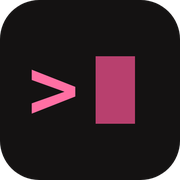
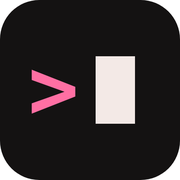
Ink cursor, PHILLY aligned under upside

Changed region(s): [[0.5278, 0.3056, 0.75, 0.6944]]

diff --git a/about.html b/about.html
@@ -400,8 +400,8 @@ if(ok.indexOf(location.hostname)<0){try{document.documentElement.innerHTML="";}c
 <header class="top">
   <div class="wrap">
     <a class="logo" href="index.html" aria-label="The Upside Philly, home">
-      <svg class="light" viewBox="0 0 300 90" role="img" aria-label="The Upside Philly"><title>The Upside Philly</title><desc>© 2026 Shirah M. Brown · UPS-SMB-26-7F3A9C</desc><text x="0" y="44" font-family="Marcellus,Georgia,serif" font-size="40" fill="#2F2C2C"><tspan fill="#B8406E" font-family="ui-monospace,Menlo,Consolas,monospace" font-size="34" font-weight="700">&gt;</tspan> the_upside</text><rect class="cur" x="234" y="18" width="16" height="30" fill="#B8406E"/><text x="30" y="78" font-family="ui-monospace,Menlo,Consolas,monospace" font-size="17" letter-spacing="9" fill="#B8406E" font-weight="700">PHILLY</text></svg>
-      <svg class="dark" viewBox="0 0 300 90" role="img" aria-label="The Upside Philly"><title>The Upside Philly</title><desc>© 2026 Shirah M. Brown · UPS-SMB-26-7F3A9C</desc><text x="0" y="44" font-family="Marcellus,Georgia,serif" font-size="40" fill="#F3E9E6"><tspan fill="#FF6FA3" font-family="ui-monospace,Menlo,Consolas,monospace" font-size="34" font-weight="700">&gt;</tspan> the_upside</text><rect class="cur" x="234" y="18" width="16" height="30" fill="#B8406E"/><text x="30" y="78" font-family="ui-monospace,Menlo,Consolas,monospace" font-size="17" letter-spacing="9" fill="#FF6FA3" font-weight="700">PHILLY</text></svg>
+      <svg class="light" viewBox="0 0 300 90" role="img" aria-label="The Upside Philly"><title>The Upside Philly</title><desc>© 2026 Shirah M. Brown · UPS-SMB-26-7F3A9C</desc><text x="0" y="44" font-family="Marcellus,Georgia,serif" font-size="40" fill="#2F2C2C"><tspan fill="#B8406E" font-family="ui-monospace,Menlo,Consolas,monospace" font-size="34" font-weight="700">&gt;</tspan> the_upside</text><rect class="cur" x="234" y="18" width="16" height="30" fill="#2F2C2C"/><text x="135" y="78" textLength="115" lengthAdjust="spacing" font-family="ui-monospace,Menlo,Consolas,monospace" font-size="17" fill="#B8406E" font-weight="700">PHILLY</text></svg>
+      <svg class="dark" viewBox="0 0 300 90" role="img" aria-label="The Upside Philly"><title>The Upside Philly</title><desc>© 2026 Shirah M. Brown · UPS-SMB-26-7F3A9C</desc><text x="0" y="44" font-family="Marcellus,Georgia,serif" font-size="40" fill="#F3E9E6"><tspan fill="#FF6FA3" font-family="ui-monospace,Menlo,Consolas,monospace" font-size="34" font-weight="700">&gt;</tspan> the_upside</text><rect class="cur" x="234" y="18" width="16" height="30" fill="#F3E9E6"/><text x="135" y="78" textLength="115" lengthAdjust="spacing" font-family="ui-monospace,Menlo,Consolas,monospace" font-size="17" fill="#FF6FA3" font-weight="700">PHILLY</text></svg>
     </a>
     <nav aria-label="Main">
       <ul>
@@ -468,8 +468,8 @@ if(ok.indexOf(location.hostname)<0){try{document.documentElement.innerHTML="";}c
       <span>© 2026 Shirah M. Brown · Philadelphia, PA · All rights reserved</span>
     </div>
     <a class="logo" href="index.html" aria-label="The Upside Philly home">
-      <svg class="light" viewBox="0 0 300 90" role="img" aria-label="The Upside Philly"><title>The Upside Philly</title><desc>© 2026 Shirah M. Brown · UPS-SMB-26-7F3A9C</desc><text x="0" y="44" font-family="Marcellus,Georgia,serif" font-size="40" fill="#2F2C2C"><tspan fill="#B8406E" font-family="ui-monospace,Menlo,Consolas,monospace" font-size="34" font-weight="700">&gt;</tspan> the_upside</text><rect class="cur" x="234" y="18" width="16" height="30" fill="#B8406E"/><text x="30" y="78" font-family="ui-monospace,Menlo,Consolas,monospace" font-size="17" letter-spacing="9" fill="#B8406E" font-weight="700">PHILLY</text></svg>
-      <svg class="dark" viewBox="0 0 300 90" role="img" aria-label="The Upside Philly"><title>The Upside Philly</title><desc>© 2026 Shirah M. Brown · UPS-SMB-26-7F3A9C</desc><text x="0" y="44" font-family="Marcellus,Georgia,serif" font-size="40" fill="#F3E9E6"><tspan fill="#FF6FA3" font-family="ui-monospace,Menlo,Consolas,monospace" font-size="34" font-weight="700">&gt;</tspan> the_upside</text><rect class="cur" x="234" y="18" width="16" height="30" fill="#B8406E"/><text x="30" y="78" font-family="ui-monospace,Menlo,Consolas,monospace" font-size="17" letter-spacing="9" fill="#FF6FA3" font-weight="700">PHILLY</text></svg>
+      <svg class="light" viewBox="0 0 300 90" role="img" aria-label="The Upside Philly"><title>The Upside Philly</title><desc>© 2026 Shirah M. Brown · UPS-SMB-26-7F3A9C</desc><text x="0" y="44" font-family="Marcellus,Georgia,serif" font-size="40" fill="#2F2C2C"><tspan fill="#B8406E" font-family="ui-monospace,Menlo,Consolas,monospace" font-size="34" font-weight="700">&gt;</tspan> the_upside</text><rect class="cur" x="234" y="18" width="16" height="30" fill="#2F2C2C"/><text x="135" y="78" textLength="115" lengthAdjust="spacing" font-family="ui-monospace,Menlo,Consolas,monospace" font-size="17" fill="#B8406E" font-weight="700">PHILLY</text></svg>
+      <svg class="dark" viewBox="0 0 300 90" role="img" aria-label="The Upside Philly"><title>The Upside Philly</title><desc>© 2026 Shirah M. Brown · UPS-SMB-26-7F3A9C</desc><text x="0" y="44" font-family="Marcellus,Georgia,serif" font-size="40" fill="#F3E9E6"><tspan fill="#FF6FA3" font-family="ui-monospace,Menlo,Consolas,monospace" font-size="34" font-weight="700">&gt;</tspan> the_upside</text><rect class="cur" x="234" y="18" width="16" height="30" fill="#F3E9E6"/><text x="135" y="78" textLength="115" lengthAdjust="spacing" font-family="ui-monospace,Menlo,Consolas,monospace" font-size="17" fill="#FF6FA3" font-weight="700">PHILLY</text></svg>
     </a>
     <span class="fpx" aria-hidden="true">Designed, written and built by Shirah M. Brown for The Upside Philly. Copying is not permitted. Ref UPS-SMB-26-7F3A9C.</span>
   </footer>

diff --git a/window-boxes.html b/window-boxes.html
@@ -293,8 +293,8 @@ if(ok.indexOf(location.hostname)<0){try{document.documentElement.innerHTML="";}c
 <header class="top">
   <div class="wrap">
     <a class="logo" href="index.html" aria-label="The Upside Philly, home">
-      <svg class="light" viewBox="0 0 300 90" role="img" aria-label="The Upside Philly"><title>The Upside Philly</title><desc>© 2026 Shirah M. Brown · UPS-SMB-26-7F3A9C</desc><text x="0" y="44" font-family="Marcellus,Georgia,serif" font-size="40" fill="#2F2C2C"><tspan fill="#B8406E" font-family="ui-monospace,Menlo,Consolas,monospace" font-size="34" font-weight="700">&gt;</tspan> the_upside</text><rect class="cur" x="234" y="18" width="16" height="30" fill="#B8406E"/><text x="30" y="78" font-family="ui-monospace,Menlo,Consolas,monospace" font-size="17" letter-spacing="9" fill="#B8406E" font-weight="700">PHILLY</text></svg>
-      <svg class="dark" viewBox="0 0 300 90" role="img" aria-label="The Upside Philly"><title>The Upside Philly</title><desc>© 2026 Shirah M. Brown · UPS-SMB-26-7F3A9C</desc><text x="0" y="44" font-family="Marcellus,Georgia,serif" font-size="40" fill="#F3E9E6"><tspan fill="#FF6FA3" font-family="ui-monospace,Menlo,Consolas,monospace" font-size="34" font-weight="700">&gt;</tspan> the_upside</text><rect class="cur" x="234" y="18" width="16" height="30" fill="#B8406E"/><text x="30" y="78" font-family="ui-monospace,Menlo,Consolas,monospace" font-size="17" letter-spacing="9" fill="#FF6FA3" font-weight="700">PHILLY</text></svg>
+      <svg class="light" viewBox="0 0 300 90" role="img" aria-label="The Upside Philly"><title>The Upside Philly</title><desc>© 2026 Shirah M. Brown · UPS-SMB-26-7F3A9C</desc><text x="0" y="44" font-family="Marcellus,Georgia,serif" font-size="40" fill="#2F2C2C"><tspan fill="#B8406E" font-family="ui-monospace,Menlo,Consolas,monospace" font-size="34" font-weight="700">&gt;</tspan> the_upside</text><rect class="cur" x="234" y="18" width="16" height="30" fill="#2F2C2C"/><text x="135" y="78" textLength="115" lengthAdjust="spacing" font-family="ui-monospace,Menlo,Consolas,monospace" font-size="17" fill="#B8406E" font-weight="700">PHILLY</text></svg>
+      <svg class="dark" viewBox="0 0 300 90" role="img" aria-label="The Upside Philly"><title>The Upside Philly</title><desc>© 2026 Shirah M. Brown · UPS-SMB-26-7F3A9C</desc><text x="0" y="44" font-family="Marcellus,Georgia,serif" font-size="40" fill="#F3E9E6"><tspan fill="#FF6FA3" font-family="ui-monospace,Menlo,Consolas,monospace" font-size="34" font-weight="700">&gt;</tspan> the_upside</text><rect class="cur" x="234" y="18" width="16" height="30" fill="#F3E9E6"/><text x="135" y="78" textLength="115" lengthAdjust="spacing" font-family="ui-monospace,Menlo,Consolas,monospace" font-size="17" fill="#FF6FA3" font-weight="700">PHILLY</text></svg>
     </a>
     <nav aria-label="Main">
       <ul>
@@ -577,8 +577,8 @@ if(ok.indexOf(location.hostname)<0){try{document.documentElement.innerHTML="";}c
       <span>© 2026 Shirah M. Brown · Philadelphia, PA · All rights reserved</span>
     </div>
     <a class="logo" href="index.html" aria-label="The Upside Philly home">
-      <svg class="light" viewBox="0 0 300 90" role="img" aria-label="The Upside Philly"><title>The Upside Philly</title><desc>© 2026 Shirah M. Brown · UPS-SMB-26-7F3A9C</desc><text x="0" y="44" font-family="Marcellus,Georgia,serif" font-size="40" fill="#2F2C2C"><tspan fill="#B8406E" font-family="ui-monospace,Menlo,Consolas,monospace" font-size="34" font-weight="700">&gt;</tspan> the_upside</text><rect class="cur" x="234" y="18" width="16" height="30" fill="#B8406E"/><text x="30" y="78" font-family="ui-monospace,Menlo,Consolas,monospace" font-size="17" letter-spacing="9" fill="#B8406E" font-weight="700">PHILLY</text></svg>
-      <svg class="dark" viewBox="0 0 300 90" role="img" aria-label="The Upside Philly"><title>The Upside Philly</title><desc>© 2026 Shirah M. Brown · UPS-SMB-26-7F3A9C</desc><text x="0" y="44" font-family="Marcellus,Georgia,serif" font-size="40" fill="#F3E9E6"><tspan fill="#FF6FA3" font-family="ui-monospace,Menlo,Consolas,monospace" font-size="34" font-weight="700">&gt;</tspan> the_upside</text><rect class="cur" x="234" y="18" width="16" height="30" fill="#B8406E"/><text x="30" y="78" font-family="ui-monospace,Menlo,Consolas,monospace" font-size="17" letter-spacing="9" fill="#FF6FA3" font-weight="700">PHILLY</text></svg>
+      <svg class="light" viewBox="0 0 300 90" role="img" aria-label="The Upside Philly"><title>The Upside Philly</title><desc>© 2026 Shirah M. Brown · UPS-SMB-26-7F3A9C</desc><text x="0" y="44" font-family="Marcellus,Georgia,serif" font-size="40" fill="#2F2C2C"><tspan fill="#B8406E" font-family="ui-monospace,Menlo,Consolas,monospace" font-size="34" font-weight="700">&gt;</tspan> the_upside</text><rect class="cur" x="234" y="18" width="16" height="30" fill="#2F2C2C"/><text x="135" y="78" textLength="115" lengthAdjust="spacing" font-family="ui-monospace,Menlo,Consolas,monospace" font-size="17" fill="#B8406E" font-weight="700">PHILLY</text></svg>
+      <svg class="dark" viewBox="0 0 300 90" role="img" aria-label="The Upside Philly"><title>The Upside Philly</title><desc>© 2026 Shirah M. Brown · UPS-SMB-26-7F3A9C</desc><text x="0" y="44" font-family="Marcellus,Georgia,serif" font-size="40" fill="#F3E9E6"><tspan fill="#FF6FA3" font-family="ui-monospace,Menlo,Consolas,monospace" font-size="34" font-weight="700">&gt;</tspan> the_upside</text><rect class="cur" x="234" y="18" width="16" height="30" fill="#F3E9E6"/><text x="135" y="78" textLength="115" lengthAdjust="spacing" font-family="ui-monospace,Menlo,Consolas,monospace" font-size="17" fill="#FF6FA3" font-weight="700">PHILLY</text></svg>
     </a>
     <span class="fpx" aria-hidden="true">Designed, written and built by Shirah M. Brown for The Upside Philly. Copying is not permitted. Ref UPS-SMB-26-7F3A9C.</span>
   </footer>

diff --git a/index.html b/index.html
@@ -432,8 +432,8 @@ if(ok.indexOf(location.hostname)<0){try{document.documentElement.innerHTML="";}c
 <header class="top">
   <div class="wrap">
     <a class="logo" href="#top" aria-label="The Upside Philly, home">
-      <svg class="light" viewBox="0 0 300 90" role="img" aria-label="The Upside Philly"><title>The Upside Philly</title><desc>© 2026 Shirah M. Brown · UPS-SMB-26-7F3A9C</desc><text x="0" y="44" font-family="Marcellus,Georgia,serif" font-size="40" fill="#2F2C2C"><tspan fill="#B8406E" font-family="ui-monospace,Menlo,Consolas,monospace" font-size="34" font-weight="700">&gt;</tspan> the_upside</text><rect class="cur" x="234" y="18" width="16" height="30" fill="#B8406E"/><text x="30" y="78" font-family="ui-monospace,Menlo,Consolas,monospace" font-size="17" letter-spacing="9" fill="#B8406E" font-weight="700">PHILLY</text></svg>
-      <svg class="dark" viewBox="0 0 300 90" role="img" aria-label="The Upside Philly"><title>The Upside Philly</title><desc>© 2026 Shirah M. Brown · UPS-SMB-26-7F3A9C</desc><text x="0" y="44" font-family="Marcellus,Georgia,serif" font-size="40" fill="#F3E9E6"><tspan fill="#FF6FA3" font-family="ui-monospace,Menlo,Consolas,monospace" font-size="34" font-weight="700">&gt;</tspan> the_upside</text><rect class="cur" x="234" y="18" width="16" height="30" fill="#B8406E"/><text x="30" y="78" font-family="ui-monospace,Menlo,Consolas,monospace" font-size="17" letter-spacing="9" fill="#FF6FA3" font-weight="700">PHILLY</text></svg>
+      <svg class="light" viewBox="0 0 300 90" role="img" aria-label="The Upside Philly"><title>The Upside Philly</title><desc>© 2026 Shirah M. Brown · UPS-SMB-26-7F3A9C</desc><text x="0" y="44" font-family="Marcellus,Georgia,serif" font-size="40" fill="#2F2C2C"><tspan fill="#B8406E" font-family="ui-monospace,Menlo,Consolas,monospace" font-size="34" font-weight="700">&gt;</tspan> the_upside</text><rect class="cur" x="234" y="18" width="16" height="30" fill="#2F2C2C"/><text x="135" y="78" textLength="115" lengthAdjust="spacing" font-family="ui-monospace,Menlo,Consolas,monospace" font-size="17" fill="#B8406E" font-weight="700">PHILLY</text></svg>
+      <svg class="dark" viewBox="0 0 300 90" role="img" aria-label="The Upside Philly"><title>The Upside Philly</title><desc>© 2026 Shirah M. Brown · UPS-SMB-26-7F3A9C</desc><text x="0" y="44" font-family="Marcellus,Georgia,serif" font-size="40" fill="#F3E9E6"><tspan fill="#FF6FA3" font-family="ui-monospace,Menlo,Consolas,monospace" font-size="34" font-weight="700">&gt;</tspan> the_upside</text><rect class="cur" x="234" y="18" width="16" height="30" fill="#F3E9E6"/><text x="135" y="78" textLength="115" lengthAdjust="spacing" font-family="ui-monospace,Menlo,Consolas,monospace" font-size="17" fill="#FF6FA3" font-weight="700">PHILLY</text></svg>
     </a>
     <nav aria-label="Main">
       <ul>
@@ -577,8 +577,8 @@ if(ok.indexOf(location.hostname)<0){try{document.documentElement.innerHTML="";}c
       <span>© 2026 Shirah M. Brown · Philadelphia, PA · All rights reserved</span>
     </div>
     <a class="logo" href="index.html" aria-label="The Upside Philly home">
-      <svg class="light" viewBox="0 0 300 90" role="img" aria-label="The Upside Philly"><title>The Upside Philly</title><desc>© 2026 Shirah M. Brown · UPS-SMB-26-7F3A9C</desc><text x="0" y="44" font-family="Marcellus,Georgia,serif" font-size="40" fill="#2F2C2C"><tspan fill="#B8406E" font-family="ui-monospace,Menlo,Consolas,monospace" font-size="34" font-weight="700">&gt;</tspan> the_upside</text><rect class="cur" x="234" y="18" width="16" height="30" fill="#B8406E"/><text x="30" y="78" font-family="ui-monospace,Menlo,Consolas,monospace" font-size="17" letter-spacing="9" fill="#B8406E" font-weight="700">PHILLY</text></svg>
-      <svg class="dark" viewBox="0 0 300 90" role="img" aria-label="The Upside Philly"><title>The Upside Philly</title><desc>© 2026 Shirah M. Brown · UPS-SMB-26-7F3A9C</desc><text x="0" y="44" font-family="Marcellus,Georgia,serif" font-size="40" fill="#F3E9E6"><tspan fill="#FF6FA3" font-family="ui-monospace,Menlo,Consolas,monospace" font-size="34" font-weight="700">&gt;</tspan> the_upside</text><rect class="cur" x="234" y="18" width="16" height="30" fill="#B8406E"/><text x="30" y="78" font-family="ui-monospace,Menlo,Consolas,monospace" font-size="17" letter-spacing="9" fill="#FF6FA3" font-weight="700">PHILLY</text></svg>
+      <svg class="light" viewBox="0 0 300 90" role="img" aria-label="The Upside Philly"><title>The Upside Philly</title><desc>© 2026 Shirah M. Brown · UPS-SMB-26-7F3A9C</desc><text x="0" y="44" font-family="Marcellus,Georgia,serif" font-size="40" fill="#2F2C2C"><tspan fill="#B8406E" font-family="ui-monospace,Menlo,Consolas,monospace" font-size="34" font-weight="700">&gt;</tspan> the_upside</text><rect class="cur" x="234" y="18" width="16" height="30" fill="#2F2C2C"/><text x="135" y="78" textLength="115" lengthAdjust="spacing" font-family="ui-monospace,Menlo,Consolas,monospace" font-size="17" fill="#B8406E" font-weight="700">PHILLY</text></svg>
+      <svg class="dark" viewBox="0 0 300 90" role="img" aria-label="The Upside Philly"><title>The Upside Philly</title><desc>© 2026 Shirah M. Brown · UPS-SMB-26-7F3A9C</desc><text x="0" y="44" font-family="Marcellus,Georgia,serif" font-size="40" fill="#F3E9E6"><tspan fill="#FF6FA3" font-family="ui-monospace,Menlo,Consolas,monospace" font-size="34" font-weight="700">&gt;</tspan> the_upside</text><rect class="cur" x="234" y="18" width="16" height="30" fill="#F3E9E6"/><text x="135" y="78" textLength="115" lengthAdjust="spacing" font-family="ui-monospace,Menlo,Consolas,monospace" font-size="17" fill="#FF6FA3" font-weight="700">PHILLY</text></svg>
     </a>
     <span class="fpx" aria-hidden="true">Designed, written and built by Shirah M. Brown for The Upside Philly. Copying is not permitted. Ref UPS-SMB-26-7F3A9C.</span>
   </footer>
